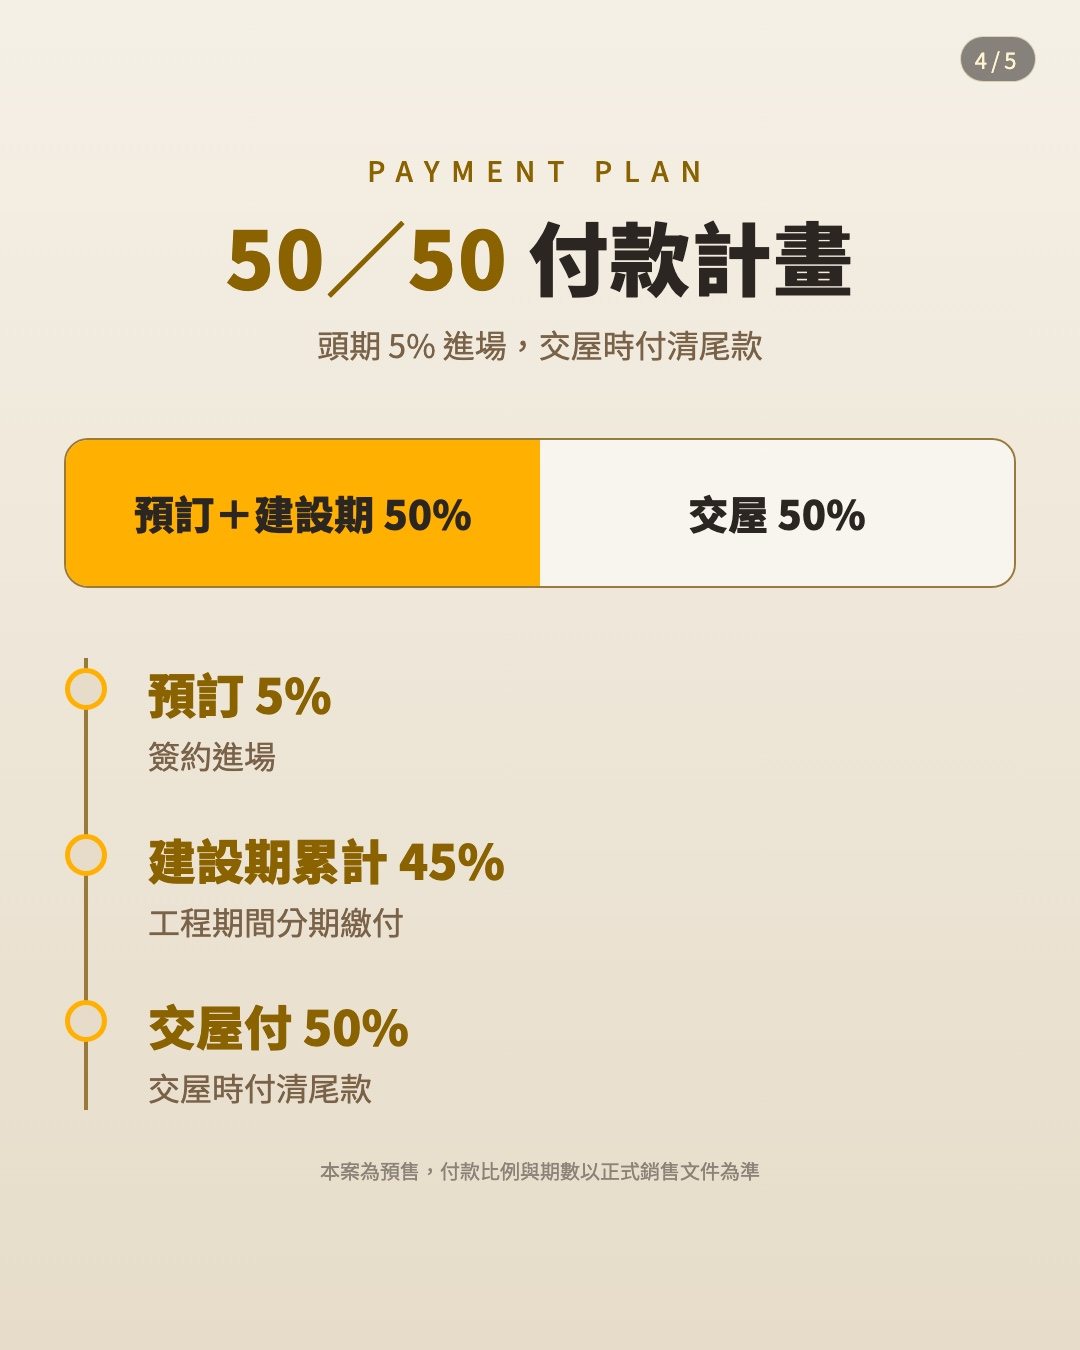
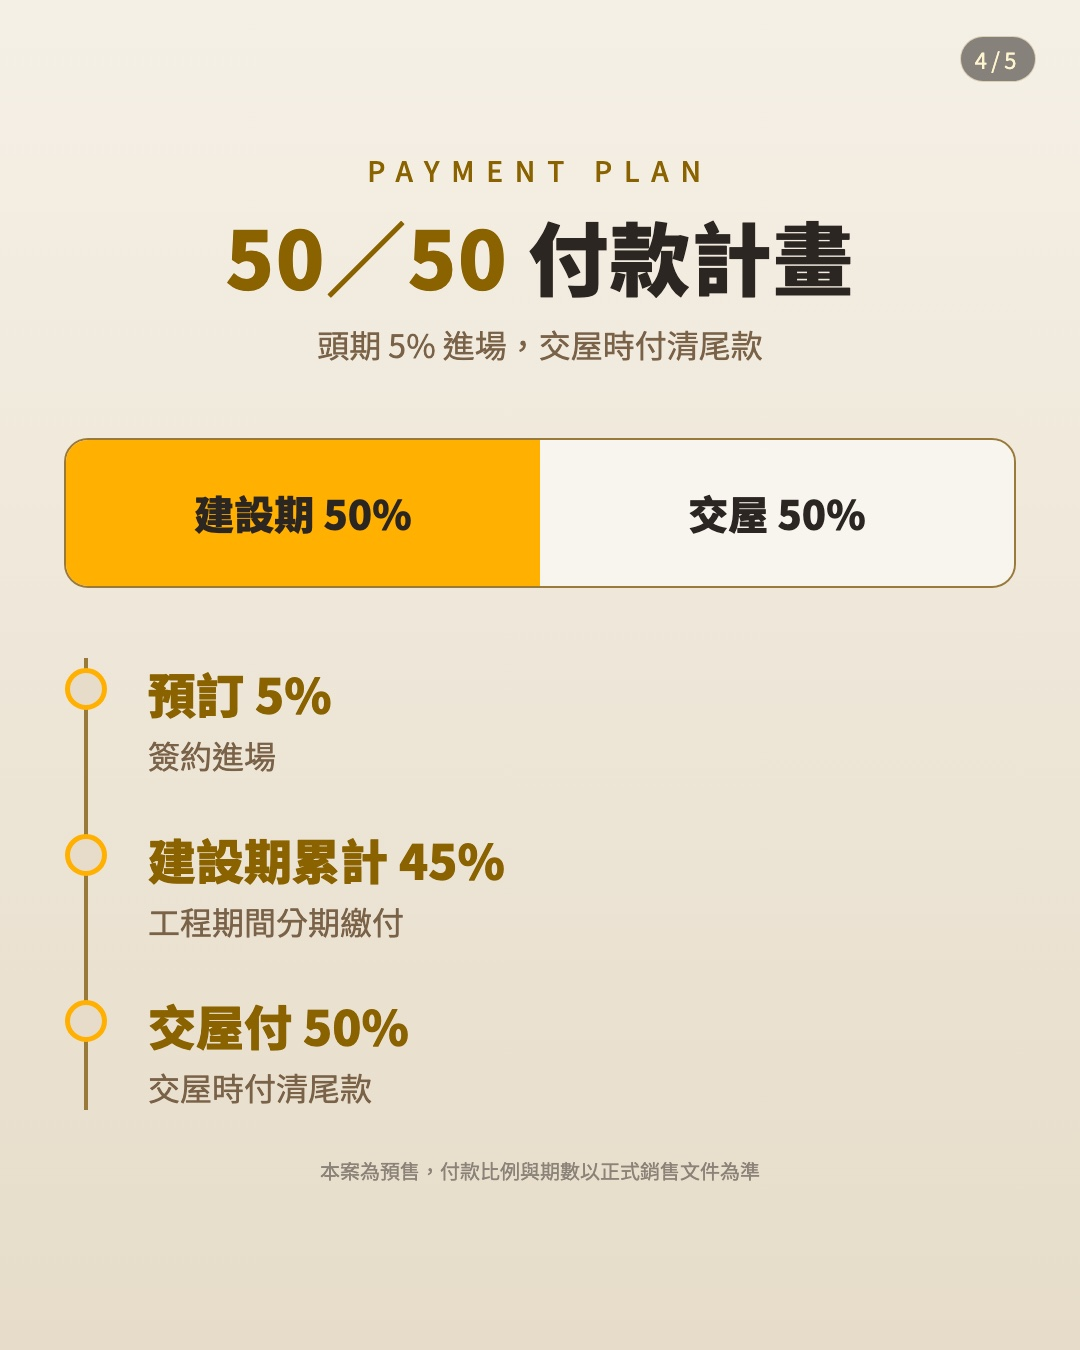
posts-2610：sei-04 色條改回「建設期 50%」，僅照 Shirley 要求修改

Changed region(s): [[0.1222, 0.3422, 0.4583, 0.4044]]

diff --git a/posts-2610/index.html b/posts-2610/index.html
@@ -49,36 +49,36 @@ ul.plain li::before{content:"・";color:var(--gold)}
   <h2>2610-01｜<em>Sei Saadiyat</em></h2>
   <p class="lead">元宇宙全球置產｜預計發佈 9/29（已過，請指定新發佈日）</p>
   <div class="grid">
-    <figure><img src="img/sei-01.jpg?v=1001" alt="Sei 1"><figcaption>1 主視覺</figcaption></figure>
-    <figure><img src="img/sei-02.jpg?v=1001" alt="Sei 2"><figcaption>2 文化區六大地標</figcaption></figure>
-    <figure><img src="img/sei-03.jpg?v=1001" alt="Sei 3"><figcaption>3 房型與挑高 Loft</figcaption></figure>
-    <figure><img src="img/sei-04.jpg?v=1001" alt="Sei 4"><figcaption>4 付款時程 50／50</figcaption></figure>
-    <figure><img src="img/sei-05.jpg?v=1001" alt="Sei 5"><figcaption>5 說明會資訊</figcaption></figure>
+    <figure><img src="img/sei-01.jpg?v=1002" alt="Sei 1"><figcaption>1 主視覺</figcaption></figure>
+    <figure><img src="img/sei-02.jpg?v=1002" alt="Sei 2"><figcaption>2 文化區六大地標</figcaption></figure>
+    <figure><img src="img/sei-03.jpg?v=1002" alt="Sei 3"><figcaption>3 房型與挑高 Loft</figcaption></figure>
+    <figure><img src="img/sei-04.jpg?v=1002" alt="Sei 4"><figcaption>4 付款時程 50／50</figcaption></figure>
+    <figure><img src="img/sei-05.jpg?v=1002" alt="Sei 5"><figcaption>5 說明會資訊</figcaption></figure>
   </div>
   <a class="dl" href="sei-saadiyat-5.zip" download>下載 Sei 原尺寸 5 張（PNG）</a>
 
   <h2>2610-02｜<em>The Canopies</em></h2>
   <p class="lead">元宇宙全球置產｜預計發佈 10/1</p>
   <div class="grid">
-    <figure><img src="img/can-01.jpg?v=1001" alt="Canopies 1"><figcaption>1 主視覺</figcaption></figure>
-    <figure><img src="img/can-02.jpg?v=1001" alt="Canopies 2"><figcaption>2 Yas Point 區位</figcaption></figure>
-    <figure><img src="img/can-03.jpg?v=1001" alt="Canopies 3"><figcaption>3 島上娛樂與學校</figcaption></figure>
-    <figure><img src="img/can-04.jpg?v=1001" alt="Canopies 4"><figcaption>4 房型與頭期</figcaption></figure>
-    <figure><img src="img/can-05.jpg?v=1001" alt="Canopies 5"><figcaption>5 說明會資訊</figcaption></figure>
+    <figure><img src="img/can-01.jpg?v=1002" alt="Canopies 1"><figcaption>1 主視覺</figcaption></figure>
+    <figure><img src="img/can-02.jpg?v=1002" alt="Canopies 2"><figcaption>2 Yas Point 區位</figcaption></figure>
+    <figure><img src="img/can-03.jpg?v=1002" alt="Canopies 3"><figcaption>3 島上娛樂與學校</figcaption></figure>
+    <figure><img src="img/can-04.jpg?v=1002" alt="Canopies 4"><figcaption>4 房型與頭期</figcaption></figure>
+    <figure><img src="img/can-05.jpg?v=1002" alt="Canopies 5"><figcaption>5 說明會資訊</figcaption></figure>
   </div>
   <a class="dl" href="the-canopies-5.zip" download>下載 Canopies 原尺寸 5 張（PNG）</a>
 
   <h2>2610-03｜<em>預售屋交屋前房貸</em></h2>
   <p class="lead">杜拜房姊 Ishtar｜預計發佈 9/30｜單張資訊圖，依要求不放建案渲染圖</p>
   <div class="grid g3">
-    <figure><img src="img/sci03-01.jpg?v=1001" alt="2610-03"><figcaption>50／50 分界：自備／可申請銀行支應</figcaption></figure>
+    <figure><img src="img/sci03-01.jpg?v=1002" alt="2610-03"><figcaption>50／50 分界：自備／可申請銀行支應</figcaption></figure>
   </div>
 
   <h2>2610-04｜<em>沙漠的水，哪裡來</em></h2>
   <p class="lead">杜拜房姊 Ishtar｜預計發佈 10/8｜兩張，未使用任何建案圖</p>
   <div class="grid g3">
-    <figure><img src="img/sci04-01.jpg?v=1001" alt="2610-04 1"><figcaption>1 冷氣室外機滴水</figcaption></figure>
-    <figure><img src="img/sci04-02.jpg?v=1001" alt="2610-04 2"><figcaption>2 社區草坪灌溉</figcaption></figure>
+    <figure><img src="img/sci04-01.jpg?v=1002" alt="2610-04 1"><figcaption>1 冷氣室外機滴水</figcaption></figure>
+    <figure><img src="img/sci04-02.jpg?v=1002" alt="2610-04 2"><figcaption>2 社區草坪灌溉</figcaption></figure>
   </div>
   <a class="dl" href="kepu-2610-03-04.zip" download>下載 2610-03、04 原尺寸 3 張（PNG）</a>
 
